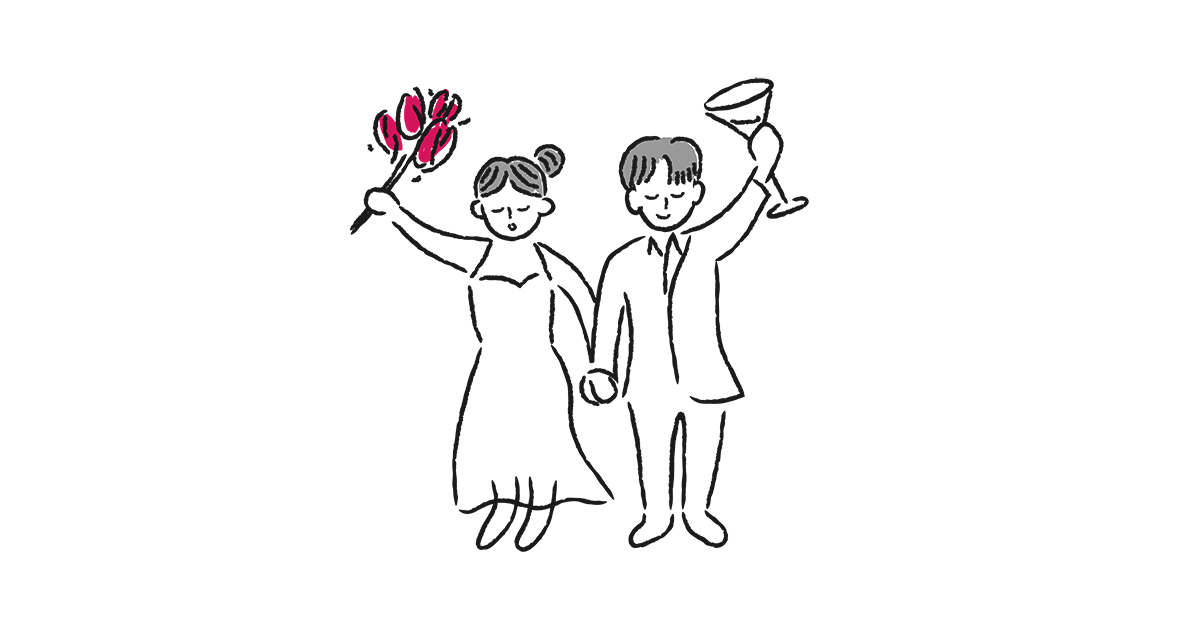
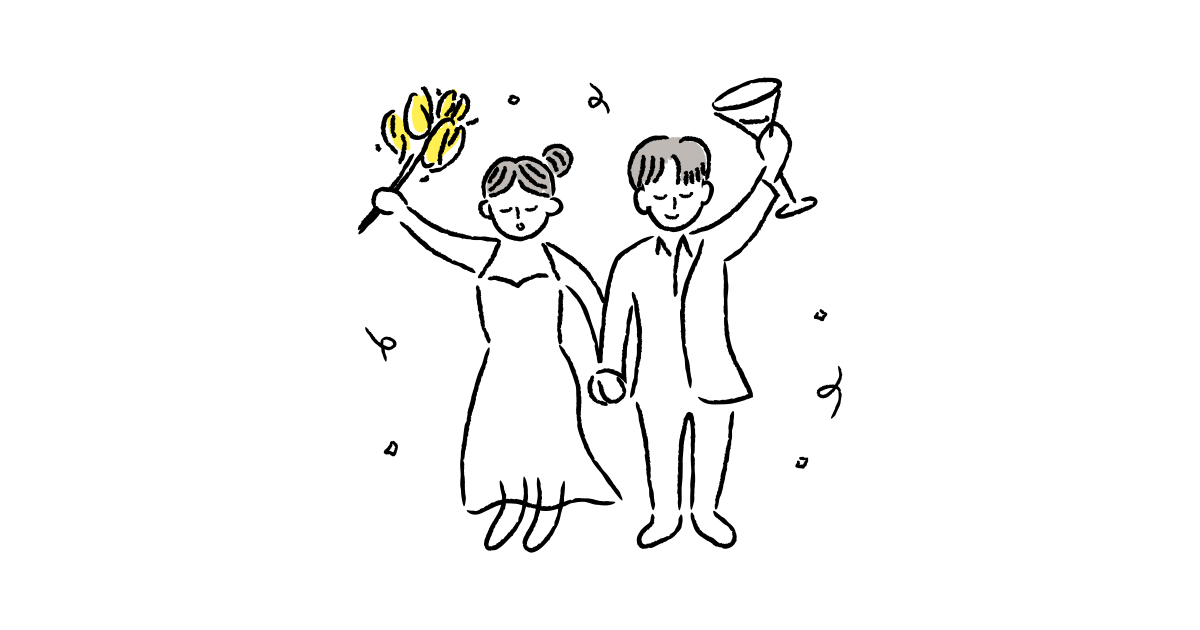
갤러리 라이트박스 이전/다음 넘기기, 배경 스크롤 잠금, 공유 메시지·계좌 폰트 정리

diff --git a/wedding/style.css b/wedding/style.css
@@ -18,6 +18,10 @@ body::-webkit-scrollbar {
   display: none;
 }
 
+body.no-scroll {
+  overflow: hidden;
+}
+
 body {
   background: #ffffff;
   color: #1a1a1a;
@@ -389,6 +393,8 @@ body {
   cursor: zoom-out;
   opacity: 0;
   pointer-events: none;
+  touch-action: none;
+  overscroll-behavior: contain;
   transition: opacity 0.3s ease;
 }
 
@@ -403,6 +409,37 @@ body {
   object-fit: contain;
   transform: scale(0.98);
   transition: transform 0.3s cubic-bezier(0.16, 1, 0.3, 1);
+}
+
+.lightbox__nav {
+  position: absolute;
+  top: 50%;
+  transform: translateY(-50%);
+  width: 44px;
+  height: 44px;
+  border: 1px solid #ddd;
+  border-radius: 50%;
+  background: #fff;
+  font-size: 1.6rem;
+  color: #1a1a1a;
+  cursor: pointer;
+  display: flex;
+  align-items: center;
+  justify-content: center;
+  -webkit-tap-highlight-color: transparent;
+  z-index: 1;
+}
+
+.lightbox__nav:active {
+  border-color: #1a1a1a;
+}
+
+.lightbox__nav--prev {
+  left: 16px;
+}
+
+.lightbox__nav--next {
+  right: 16px;
 }
 
 .lightbox.is-open .lightbox__img {
@@ -670,7 +707,7 @@ body {
 
 .account__info {
   grid-column: 1;
-  font-size: 1rem;
+  font-size: 0.8rem;
   color: #1a1a1a;
   font-variant-numeric: tabular-nums;
 }

diff --git a/wedding/script.js b/wedding/script.js
@@ -64,8 +64,6 @@
   const shareBtn = document.getElementById('shareBtn');
   if (shareBtn) {
     const shareData = {
-      title: '최유정 · 홍석화 결혼합니다',
-      text: '2026년 11월 28일 토요일 오전 11시 · W스퀘어컨벤션',
       url: 'https://hodu-ho.me/wedding/',
     };
     shareBtn.addEventListener('click', () => {
@@ -92,23 +90,45 @@
   // Gallery lightbox
   const lightbox = document.querySelector('.lightbox');
   const lightboxImg = lightbox?.querySelector('.lightbox__img');
+  const lightboxPrev = lightbox?.querySelector('.lightbox__nav--prev');
+  const lightboxNext = lightbox?.querySelector('.lightbox__nav--next');
   if (gallery && lightbox && lightboxImg) {
-    const openLightbox = (img) => {
+    let currentIndex = 0;
+    const galleryImgs = () => Array.from(gallery.querySelectorAll('.gallery__item img'));
+
+    const showAt = (index) => {
+      const imgs = galleryImgs();
+      currentIndex = (index + imgs.length) % imgs.length;
+      const img = imgs[currentIndex];
       lightboxImg.src = img.currentSrc || img.src;
       lightboxImg.alt = img.alt || '';
+    };
+    const openLightbox = (index) => {
+      showAt(index);
       lightbox.classList.add('is-open');
       lightbox.setAttribute('aria-hidden', 'false');
+      document.body.classList.add('no-scroll');
     };
     const closeLightbox = () => {
       lightbox.classList.remove('is-open');
       lightbox.setAttribute('aria-hidden', 'true');
+      document.body.classList.remove('no-scroll');
     };
     gallery.addEventListener('click', (e) => {
       const item = e.target.closest('.gallery__item');
-      const img = item?.querySelector('img');
-      if (img) openLightbox(img);
+      if (!item) return;
+      const index = galleryImgs().indexOf(item.querySelector('img'));
+      if (index > -1) openLightbox(index);
     });
     lightbox.addEventListener('click', closeLightbox);
+    lightboxPrev?.addEventListener('click', (e) => {
+      e.stopPropagation();
+      showAt(currentIndex - 1);
+    });
+    lightboxNext?.addEventListener('click', (e) => {
+      e.stopPropagation();
+      showAt(currentIndex + 1);
+    });
     window.addEventListener('keydown', (e) => {
       if (e.code === 'Escape') closeLightbox();
     });

diff --git a/wedding/index.html b/wedding/index.html
@@ -5,14 +5,14 @@
   <meta name="viewport" content="width=device-width, initial-scale=1.0">
   <meta name="color-scheme" content="light">
   <link rel="icon" type="image/svg+xml" href="assets/favicon.svg">
-  <title>최유정 • 홍석화 WEDDING INVITATION</title>
-  <meta property="og:title" content="최유정 • 홍석화 WEDDING INVITATION">
-  <meta property="og:description" content="2026년 11월 28일 토요일 오전 11시 W스퀘어컨벤션 8층 채플홀">
+  <title>최유정 • 홍석화 결혼합니다</title>
+  <meta property="og:title" content="최유정 • 홍석화 결혼합니다">
+  <meta property="og:description" content="2026-11-28(토) 오전 11시 W스퀘어컨벤션 8층 채플홀">
   <meta property="og:image" content="https://hodu-ho.me/wedding/assets/thumb.png">
   <meta property="og:type" content="website">
   <meta property="og:url" content="https://hodu-ho.me/wedding/">
   <meta name="format-detection" content="telephone=no">
-  <meta name="description" content="2026년 11월 28일 토요일 오전 11시 W스퀘어컨벤션 8층 채플홀">
+  <meta name="description" content="2026-11-28(토) 오전 11시 W스퀘어컨벤션 8층 채플홀">
   <link rel="preconnect" href="https://cdn.jsdelivr.net" crossorigin>
   <link rel="stylesheet" as="style" crossorigin
     href="https://cdn.jsdelivr.net/gh/orioncactus/pretendard@v1.3.9/dist/web/variable/pretendardvariable-dynamic-subset.css">
@@ -24,16 +24,16 @@
 
     <section class="section section--cover" data-section="cover">
       <h1 class="cover__title">
-        <img src="assets/typo.svg" alt="WE'RE GETTING MARRIED" class="cover__title-img">
+        <img src="assets/typo.svg" alt="Wedding Invitation" class="cover__title-img">
       </h1>
 
       <div class="cover__illust">
-        <img src="assets/couple.svg" alt="" class="cover__illust-img">
+        <img src="assets/couple.svg" alt="Couple" class="cover__illust-img">
       </div>
 
       <div class="cover__names">
         <span class="name__line">최유정</span>
-        <img src="assets/cat.svg" alt="" class="name__cat">
+        <img src="assets/cat.svg" alt="Cat" class="name__cat">
         <span class="name__line">홍석화</span>
       </div>
 
@@ -267,7 +267,9 @@
   </main>
 
   <div class="lightbox" aria-hidden="true">
+    <button class="lightbox__nav lightbox__nav--prev" type="button" aria-label="이전 사진">&lsaquo;</button>
     <img class="lightbox__img" src="" alt="">
+    <button class="lightbox__nav lightbox__nav--next" type="button" aria-label="다음 사진">&rsaquo;</button>
   </div>
 
   <script src="script.js"></script>